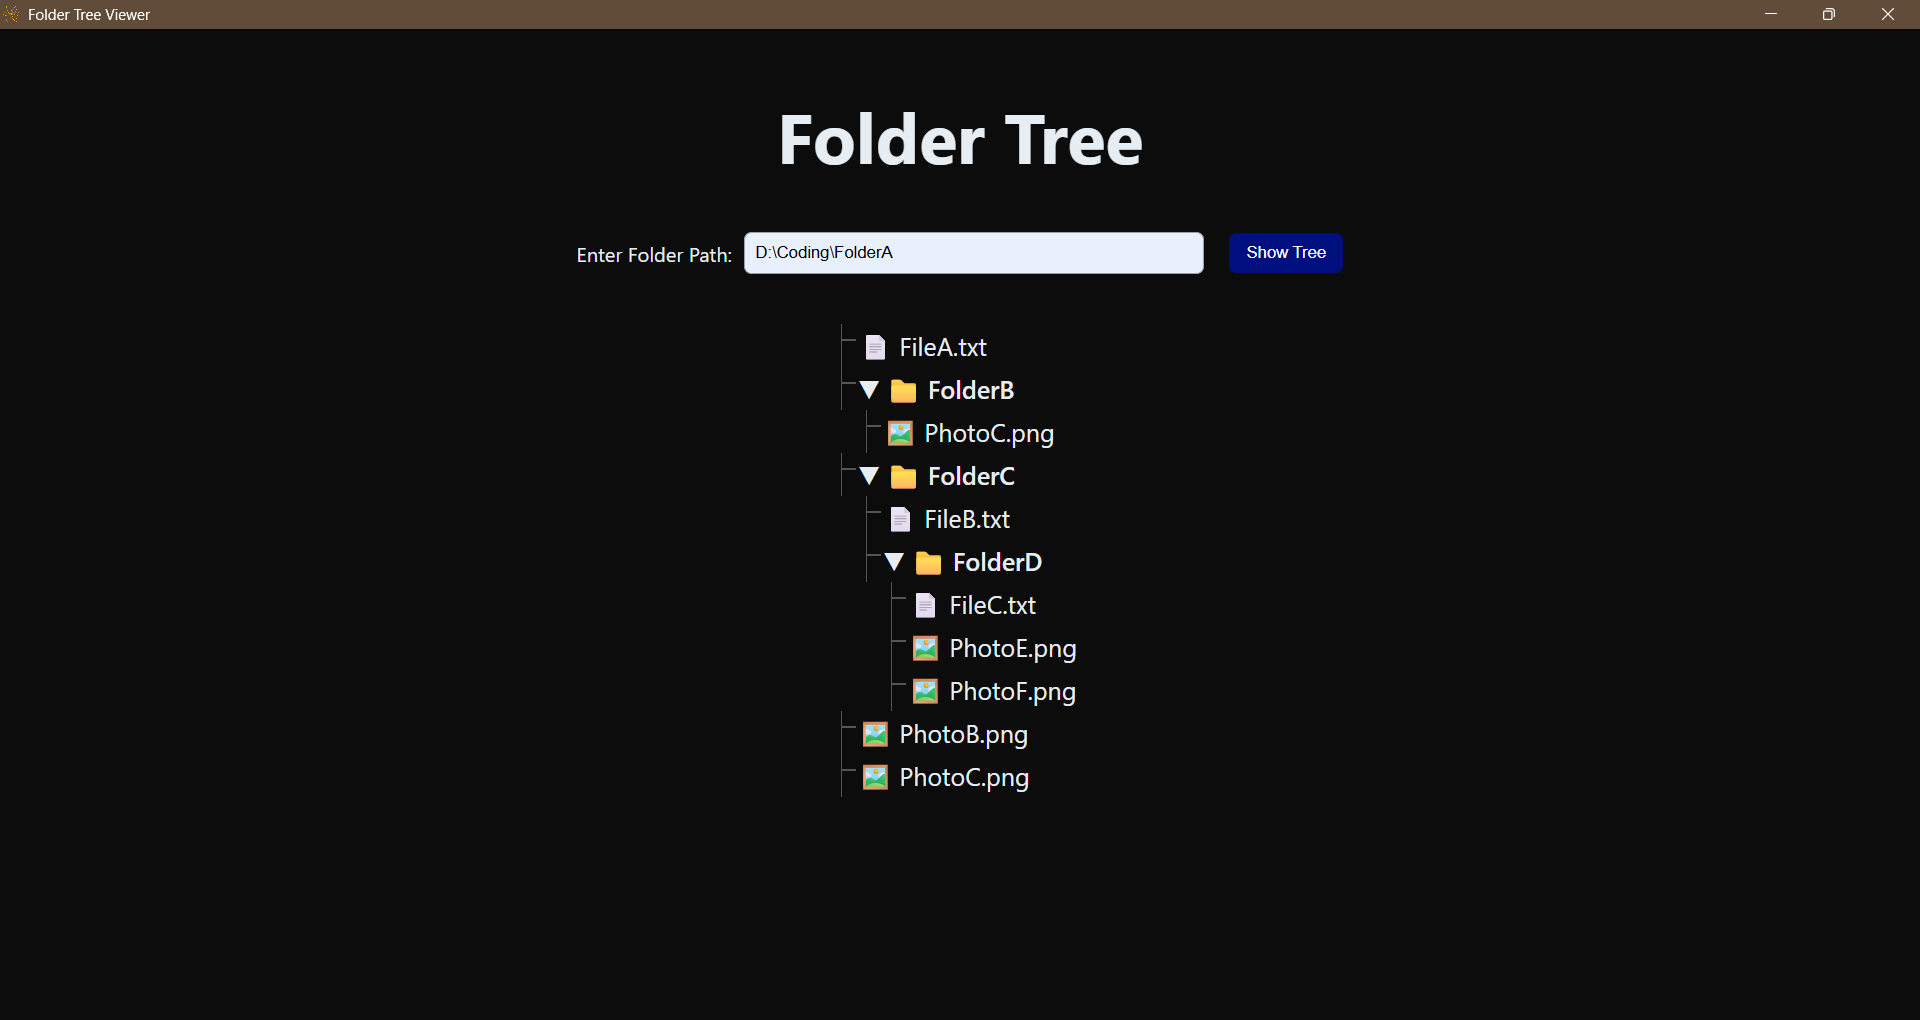
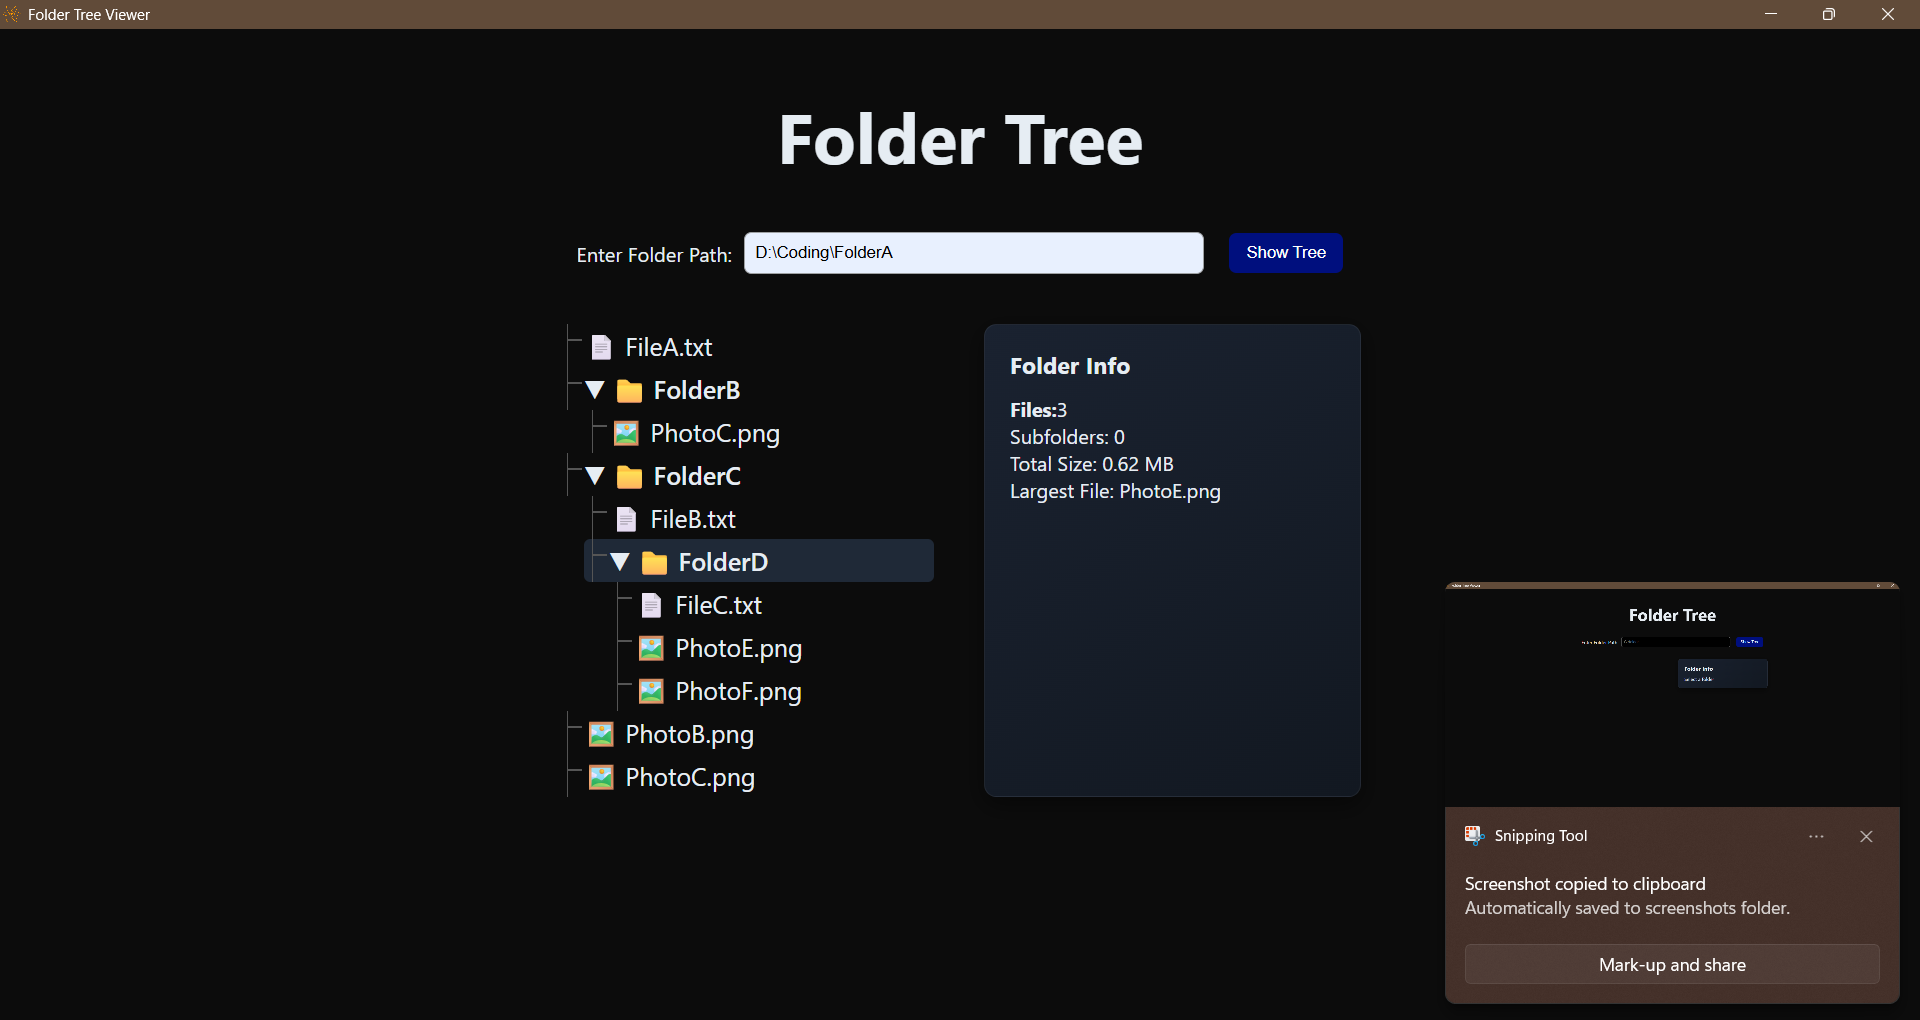
Add file info panel and improve UI

diff --git a/resources/js/main.js b/resources/js/main.js
@@ -56,21 +56,32 @@ async function buildTree(path, parent) {
 
     await buildTree(newPath, container);
 
-    element.addEventListener("click", () => {
+    element.addEventListener("click", async () => {
 
-        if (container.style.display === "none") {
+    if (container.style.display === "none") {
 
-            container.style.display = "block";
-            arrow.textContent = "▼ ";
+        container.style.display = "block";
+        arrow.textContent = "▼ ";
 
-        } else {
+    } else {
 
-            container.style.display = "none";
-            arrow.textContent = "▶ ";
+        container.style.display = "none";
+        arrow.textContent = "▶ ";
 
-        }
+    }
 
-    });
+    const info = document.getElementById("folderInfo");
+
+    const stats = await analyzeFolder(newPath);
+
+    info.innerHTML = `
+    <b>Files:</b>${stats.files}<br>
+    Subfolders: ${stats.folders}<br>
+    Total Size: ${(stats.totalSize/1024/1024).toFixed(2)} MB<br>
+    Largest File: ${stats.largestFile}
+    `;
+
+});
 
 }
 
@@ -97,6 +108,53 @@ async function buildTree(path, parent) {
 
 }
     }
+}
+
+async function analyzeFolder(path){
+
+    let files = 0;
+    let folders = 0;
+    let totalSize = 0;
+    let largestFile = "";
+    let largestSize = 0;
+
+    const items = await Neutralino.filesystem.readDirectory(path);
+
+    for(let item of items){
+
+        const fullPath = path + "/" + item.entry;
+
+        if(item.type === "DIRECTORY"){
+            folders++;
+
+            const sub = await analyzeFolder(fullPath);
+
+            files += sub.files;
+            folders += sub.folders;
+            totalSize += sub.totalSize;
+
+            if(sub.largestSize > largestSize){
+                largestSize = sub.largestSize;
+                largestFile = sub.largestFile;
+            }
+
+        }
+        else{
+
+            files++;
+
+            const stats = await Neutralino.filesystem.getStats(fullPath);
+
+            totalSize += stats.size;
+
+            if(stats.size > largestSize){
+                largestSize = stats.size;
+                largestFile = item.entry;
+            }
+        }
+    }
+
+    return {files, folders, totalSize, largestFile, largestSize};
 }
 
 Neutralino.events.on("windowClose", () => {

diff --git a/resources/styles.css b/resources/styles.css
@@ -48,6 +48,7 @@ button:hover {
 #tree {
     text-align: left;
     font-size: 20px;
+    min-width:300px;
 }
 
 .folder,
@@ -55,6 +56,36 @@ button:hover {
     padding: 4px 8px;
     border-radius: 5px;
     transition: background 0.2s ease;
+}
+
+#layout{
+    display:flex;
+    gap:40px;
+}
+
+#info{
+    background: linear-gradient(145deg,#1a2230,#121821);
+    padding:20px;
+    border-radius:10px;
+    width:260px;
+    border:1px solid rgba(255,255,255,0.06);
+    box-shadow:0 6px 18px rgba(0,0,0,0.45);
+}
+
+#info h3{
+    margin-top:0;
+    margin-bottom:12px;
+    font-size:18px;
+    color:#e6edf3;
+    letter-spacing:0.3px;
+}
+
+#info h3{
+    margin-top:0;
+    margin-bottom:12px;
+    font-size:18px;
+    color:#e6edf3;
+    letter-spacing:0.3px;
 }
 
 .folder {

diff --git a/resources/index.html b/resources/index.html
@@ -18,7 +18,13 @@
     <button id="loadBtn">Show Tree</button>
 </div>
 
-<div id="tree"></div>
+<div id="layout">
+    <div id="tree"></div>
+    <div id="info">
+        <h3>Folder Info</h3>
+        <div id="folderInfo">Select a folder</div>
+    </div>
+</div>
 
 <script src="/js/neutralino.js"></script>
 <script src="/js/main.js"></script>
